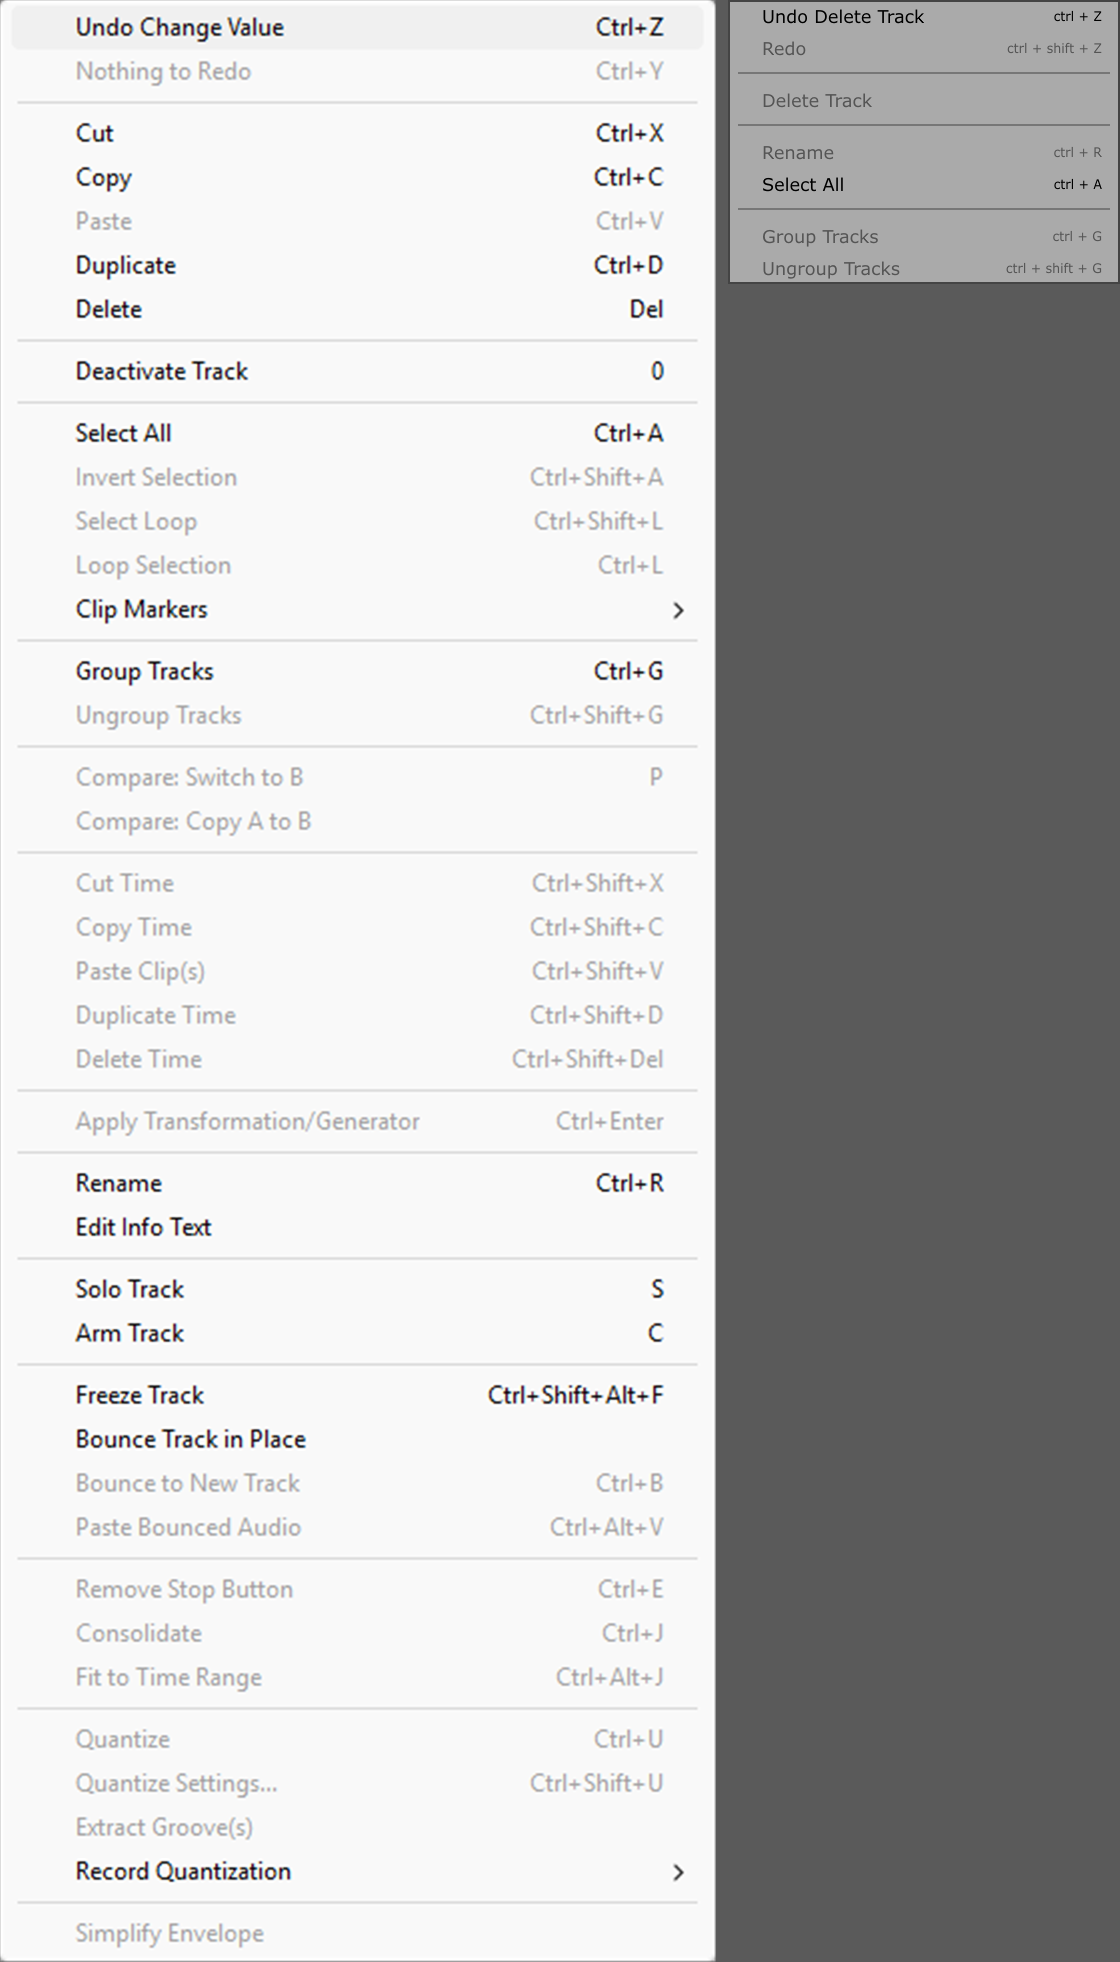
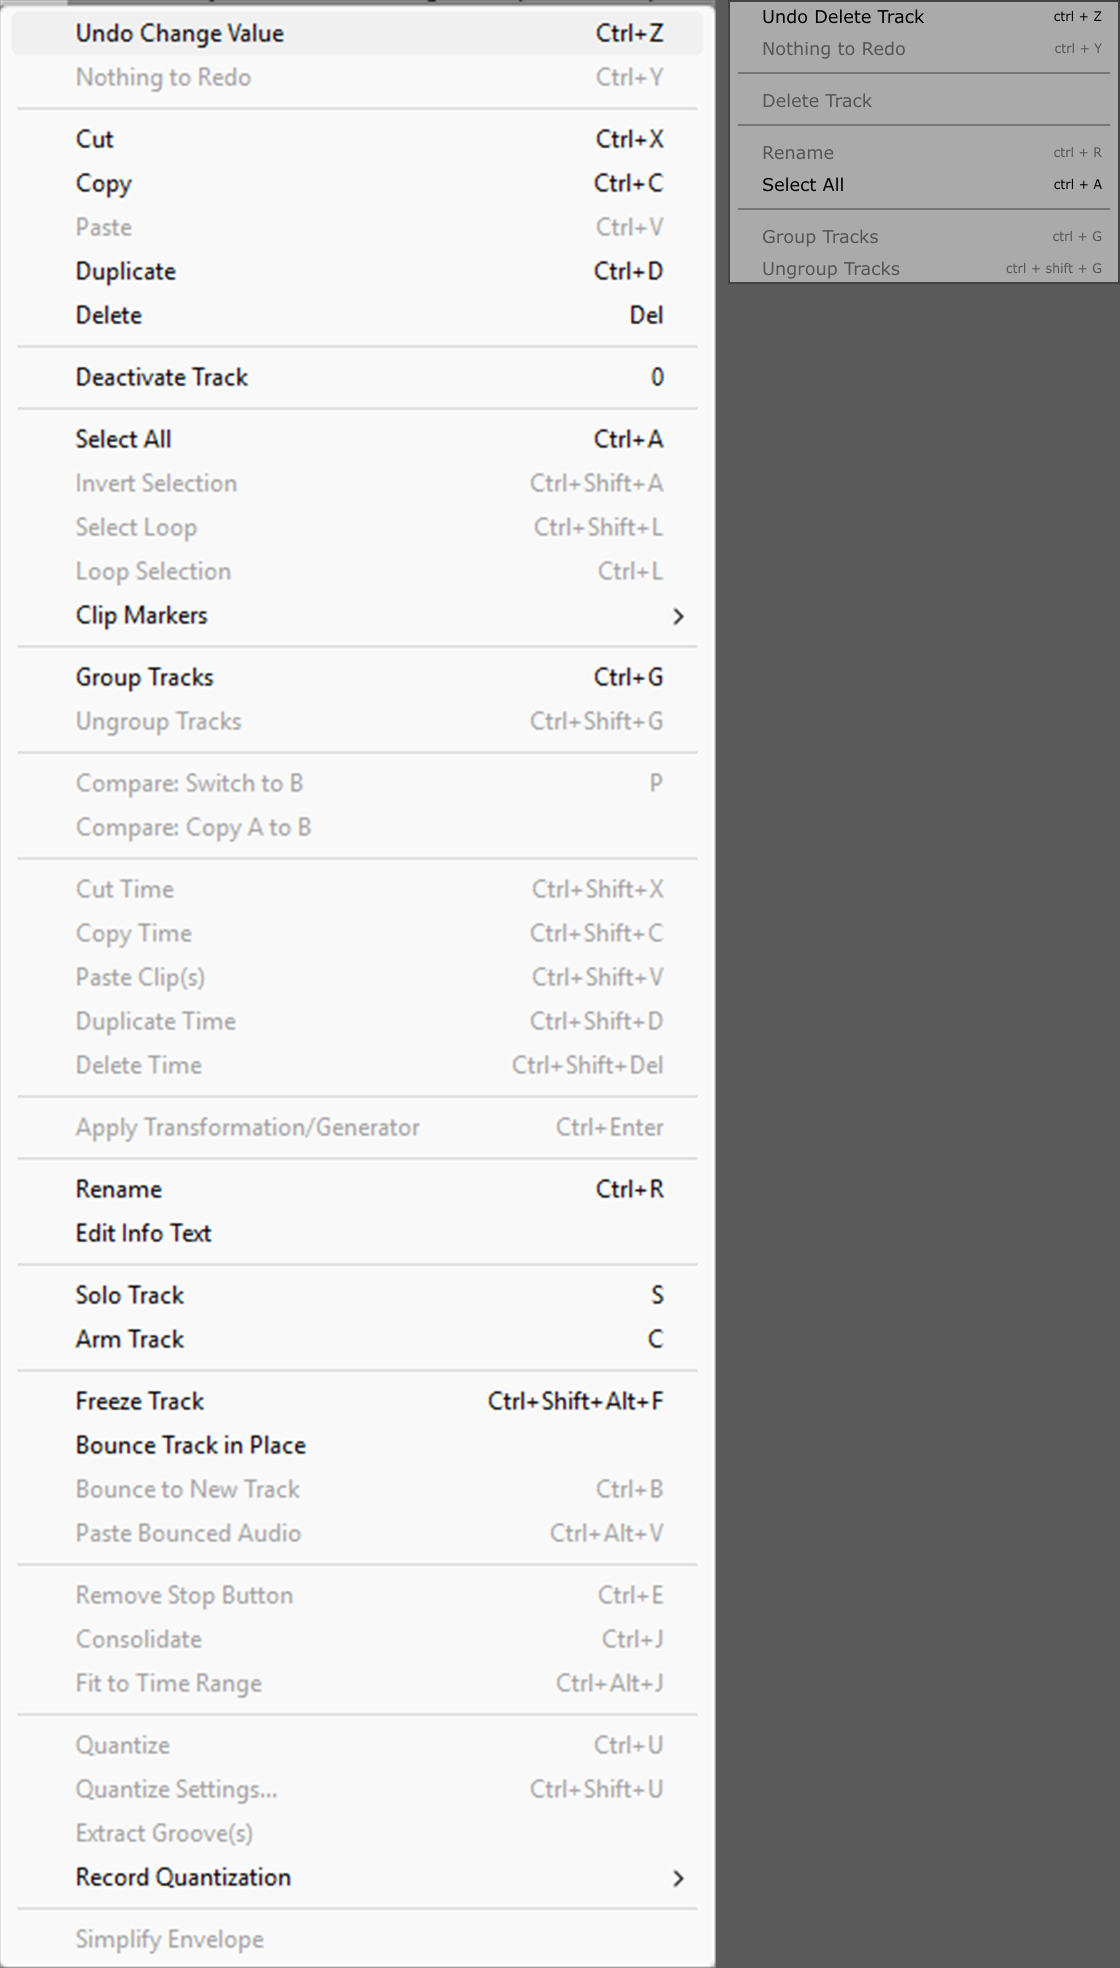
window: the Edit menu's empty items read Nothing to Undo / Redo, the picture under the Live key set, the measured order recorded (F1 review)
The F1 render was taken with the app preset still on Cubase from an earlier
check, so the picture showed Redo as ctrl + shift + Z and the PR body raised a
Ctrl+Y gap that ADI's default Live preset never had. The shell test puts the
preset back before the render and checks Ctrl+Y is Redo again off the Mac;
the picture is regenerated, the capture cropped three pixels above the menu's
frame so the first row keeps its margin.

AdiRootComponent::undoTitle says "Nothing to Undo" / "Nothing to Redo" with no
step, as Live 12's menu does (LK-02; Readings M1-16a), still dimmed; the two
shell checks that pinned the bare word pin Live's wording, and the Delete Track
check pins Nothing to Redo. Parity-7.2 rows 5 and 7 record it.

Parity-7.2 row 11 records what the picture shows that is not Live's: Live's
Edit menu order (Select All before Group/Ungroup, Rename seven groups later,
"Delete  Del") and the unmeasured menu colours (no look file had a menu row;
LK-02 is the reference). The reorder is queued as worklist F3.

diff --git a/adi_daw/tests/test_ui_shell.cpp b/adi_daw/tests/test_ui_shell.cpp
@@ -3109,7 +3109,8 @@ void newProject(AppCommands &commands, const std::filesystem::path &dir) {
               root.reader().findTrack(2)->name == "1 MIDI" && root.reader().findTrack(5)->name == "4 Audio" &&
               root.reader().findTrack(7)->name == "B Delay",
           "New shows Live's default Set: 1 MIDI, 2 MIDI, 3 Audio, 4 Audio, A Reverb, B Delay, then Main (N41)");
-    check(!root.canUndo(false) && root.undoTitle(false) == "Undo", "and has nothing to undo, as Live");
+    check(!root.canUndo(false) && root.undoTitle(false) == "Nothing to Undo" && root.undoTitle(true) == "Nothing to Redo",
+          "and has nothing to undo: the Edit menu's items read Nothing to Undo and Nothing to Redo, as Live 12's (LK-02)");
     if (const auto folder = juce::SystemStats::getEnvironmentVariable("ADI_UI_PARITY", {}); folder.isNotEmpty()) {
         juce::Image picture(juce::Image::ARGB, 2 * root.getWidth(), 2 * root.getHeight(), true, juce::SoftwareImageType{});
         {
@@ -4399,8 +4400,11 @@ int main(int argc, char **argv) {
               "the Edit menu deletes the selected track, before Rename (§18.2) and Select All, then Group and "
               "Ungroup Tracks");
         // The Edit menu as drawn after a Delete Track, for the picture beside Live 12's (the director's
-        // LK-02 capture): its Undo item names the step, as Live's "Undo Change Value" does. Worklist
-        // F1: what undo brings back is pinned in the seams test; this is the menu that offers it.
+        // LK-02 capture): its Undo item names the step, as Live's "Undo Change Value" does, and its
+        // Redo item reads "Nothing to Redo", as Live's does with nothing to redo. Worklist F1: what
+        // undo brings back is pinned in the seams test; this is the menu that offers it. The picture
+        // is of ADI's default key set, Live's (Redo Ctrl+Y off the Mac, §41.5): the app preset was
+        // switched to Cubase above and is put back before the render.
         {
             auto &edits = window.root();
             std::int64_t victim = 0;
@@ -4411,8 +4415,15 @@ int main(int argc, char **argv) {
             commands.activate(edits); // the Edit menu names the step of the active root
             edits.arrangement.geometry.selection.track = victim;
             check(victim != 0 && edits.command(C::DeleteTrack) && view.current()->tracks.size() + 1 == countBefore &&
-                      edits.undoTitle(false) == "Undo Delete Track",
-                  "Delete Track from the menu bar's window: the Undo item names the step");
+                      edits.undoTitle(false) == "Undo Delete Track" && edits.undoTitle(true) == "Nothing to Redo",
+                  "Delete Track from the menu bar's window: the Undo item names the step, Redo has nothing");
+            check(settings.set("shortcuts.preset", "live", {}, why), "the Live key set back for the picture");
+            commands.reload();
+#if !JUCE_MAC
+            check(commands.manager.getKeyMappings()->findCommandForKeyPress(
+                      juce::KeyPress('y', juce::ModifierKeys::commandModifier, 0)) == C::Redo,
+                  "Live's Redo key, Ctrl+Y (§41.5), is back with the preset");
+#endif
             if (const auto pictures = juce::SystemStats::getEnvironmentVariable("ADI_UI_PARITY", {}); pictures.isNotEmpty())
                 renderMenu(look::liveLook(), bar->getMenuForIndex(names.indexOf("Edit"), "Edit"),
                            juce::File(pictures).getChildFile("adi-edit-menu.png"));
@@ -4521,8 +4532,8 @@ int main(int argc, char **argv) {
             ++snapshots;
             return document->takeSnapshot({}, 0, 0).ok;
         };
-        check(!integrated.canUndo(false) && integrated.undoTitle(false) == "Undo",
-              "a new project has nothing to undo, as Live");
+        check(!integrated.canUndo(false) && integrated.undoTitle(false) == "Nothing to Undo",
+              "a new project has nothing to undo, as Live: the item reads Nothing to Undo");
         check(document->ops().submit(track(2)).ok && document->synchronise(),
               "application edit reaches engine");
         check(integrated.undoTitle(false) == "Undo Create track",

diff --git a/adi_daw/src/juce/ui_shell.hpp b/adi_daw/src/juce/ui_shell.hpp
@@ -195,7 +195,8 @@ class AdiRootComponent final : public juce::Component {
     // marker or the time selection.
     juce::String selectionText() const;
     bool canUndo(bool redo) const { return redo ? submitter_.canRedo() : submitter_.canUndo(); }
-    // What Live's Edit menu shows: "Undo" and the step's own label.
+    // What Live's Edit menu shows: "Undo" and the step's own label, or "Nothing to Undo" with no
+    // step (Live 12's menu, the director's LK-02 capture; Readings M1-16a); the same for Redo.
     std::string undoTitle(bool redo) const;
     // The application's commands (New, Open, Take Snapshot, Save As, Settings) and
     // the engine refresh after an edit belong to whoever owns the document.

diff --git a/adi_daw/src/juce/ui_shell.cpp b/adi_daw/src/juce/ui_shell.cpp
@@ -1120,8 +1120,10 @@ juce::String AdiRootComponent::selectionText() const {
 }
 std::string AdiRootComponent::undoTitle(bool redo) const {
     const auto step = redo ? submitter_.nextRedo() : submitter_.nextUndo();
-    return std::string(redo ? "Redo" : "Undo") +
-           (step && !step->label.empty() ? " " + step->label : "");
+    const std::string verb = redo ? "Redo" : "Undo";
+    if (!canUndo(redo))
+        return "Nothing to " + verb;
+    return verb + (step && !step->label.empty() ? " " + step->label : "");
 }
 bool AdiRootComponent::fail(std::string message) {
     error_ = std::move(message);

diff --git a/adi_daw/collab/window/parity-7.2-application.md b/adi_daw/collab/window/parity-7.2-application.md
@@ -13,12 +13,12 @@ Status as in `parity-7.2-shell.md`: built, partial, open, measure.
 | 2 | Open Live Set: Ctrl/Cmd+O | §41.3, p. 986 | A file chooser for `.adi`; a file that fails to open leaves the current project open | built |
 | 3 | Save Live Set: Ctrl/Cmd+S | §41.3, p. 986 | **Take Snapshot**: a named point in the history, the prompt pre-filled with the project's name and the time; not an edit, not an undo step (ADR-0203 d6, d12, d13) | built (the director's deviation) |
 | 4 | Save Live Set As: Ctrl/Cmd+Shift+S, a new file the Set carries on in, under a new name and/or in a new folder | §5.4.1, p. 130; §41.3, p. 986 | A save chooser for `.adi`, opened beside the current file; `ProjectDocument::saveAs` calls `Store::saveAs` (#380, N3) with no live statement held, takes the new name (the Take Snapshot prompt uses it), reads the view and the session again from the new file (a new view generation), and the window is retitled. The history comes along: undo still reaches an edit made before Save As, the next edit lands in the new file and the old file is unchanged. A success says nothing in the Status Bar and clears what was there, as after New and Open (`parity-7.2-shell.md` row 4); only a warning the store reports, or a session that failed to re-read the new file, goes there. A typed name keeps its dots ("Song v1.2" saves as `Song v1.2.adi`) (`window/save-as`; pictures `2026-11-08-save-as.png`, `…-refused.png`) | built; a known difference: Live asks before replacing an existing file, ADI never replaces a project, so an existing destination is refused and the Status Bar says why. Open on macOS: main's heavy legs fail `adi_project_files_tests` on Save As with audio media (N3, win's) |
-| 5 | Creating a Set is the first entry in the Undo History and cannot be undone | §5.4.2, p. 131 | A new project is the history's root: nothing to undo, the Edit menu greyed out (#307). A project an earlier build made began with a "New project" step, which undo still stops at, saying there is nothing to undo | built |
+| 5 | Creating a Set is the first entry in the Undo History and cannot be undone | §5.4.2, p. 131 | A new project is the history's root: nothing to undo, the Edit menu's item greyed out and reading "Nothing to Undo", as Live 12's (#307; `window/delete-track-parity`). A project an earlier build made began with a "New project" step, which undo still stops at, saying there is nothing to undo | built |
 | 6 | Opening a Set starts a fresh history (Live's history is not saved with the Set) | §5.4.2, p. 131 | ADI's history is in the file, so a reopened project undoes its earlier edits | ADI's addition (ADR-0003); never its creation |
-| 7 | The Edit menu's Undo and Redo name the action | §5.4.2, p. 131; §41.5 | "Undo Create track" and the like, from the history's own labels | built |
+| 7 | The Edit menu's Undo and Redo name the action; with nothing to undo or redo the item reads "Nothing to Undo" / "Nothing to Redo", dimmed (Live 12 measured: `LK-02_edit-menu.png`, 5 November; Readings M1-16a) | §5.4.2, p. 131; §41.5 | "Undo Create track" and the like, from the history's own labels; "Nothing to Undo" and "Nothing to Redo" with no step (`AdiRootComponent::undoTitle`, `window/delete-track-parity`; picture `2026-11-08-delete-track-parity.png`) | built. Measure: the exact labels Live gives a deleted track and an ungrouped group ("Undo Delete Track"? "Undo Ungroup Tracks"?), and which track Live selects after each (M2-12 NOT RUN) |
 | 8 | Ctrl/Cmd+, opens the Settings; audio is set up on its Audio page | §40.2, p. 975; §41.1, p. 985 | Opens the Settings window; its Audio page leads with Live's Audio Device, Sample Rate and Latency sections over the device manager, stored in App scope (`audio.*`) | built (`window/settings`, `parity-settings.md`) |
 | 9 | — (ADR-0203 d11) a device that cannot be opened always warns, never switches silently | ADR-0203 d11 | An unavailable driver or a failed open is reported, and nothing else is opened in its place | built |
 | 10 | Quit: Ctrl+Q / Cmd+Q | §41.3, p. 986 | Cmd+Q is the Mac's application menu; Ctrl+Q, and Quit at the foot of the File menu, on Windows and Linux. Both reach the same quit, which asks nothing, since every edit is already in the file | built |
-| 11 | The menu bar: File, Edit, Create, View, Options, Navigate, Help; on the Mac at the top of the screen. Settings is in the Options menu on Windows and in the Live menu on the Mac; tracks are deleted with the Edit menu's Delete | Live's menus; online §2.3, §18.2, §41.4.1, §42.28 | Live's menus in Live's order, each listing only the commands ADI has: File, Edit (with Delete Track before Rename), Create, View, Options with Follow (`window/follow`) and, off the Mac, Settings, and Navigate with the focus moves of the views ADI has (`window/navigate-menu`, `parity-7.2-shell.md` row 18); on the Mac, Settings in the application menu (`window/menu-bar`). A menu with no command is left out | partial: Help waits for a Learn View (§2.2.1); Live's other commands arrive with their ops. Live 12's Options menu shows Settings... with its key, Ctrl+, (`LK-02_options-menu.png`, 5 November); ADI's shows it too, as every command item's key, in JUCE's Windows spelling ("ctrl + ,", "ctrl + shift + F") where Live writes "Ctrl+,"; the shell tests' menu renders left the keys out until `window/solo-in-place`, which fills them as JUCE's menu window does. Measure: Live's key spelling per platform, for ADI's menus to follow |
+| 11 | The menu bar: File, Edit, Create, View, Options, Navigate, Help; on the Mac at the top of the screen. Settings is in the Options menu on Windows and in the Live menu on the Mac; tracks are deleted with the Edit menu's Delete | Live's menus; online §2.3, §18.2, §41.4.1, §42.28 | Live's menus in Live's order, each listing only the commands ADI has: File, Edit (with Delete Track before Rename), Create, View, Options with Follow (`window/follow`) and, off the Mac, Settings, and Navigate with the focus moves of the views ADI has (`window/navigate-menu`, `parity-7.2-shell.md` row 18); on the Mac, Settings in the application menu (`window/menu-bar`). A menu with no command is left out | partial: Help waits for a Learn View (§2.2.1); Live's other commands arrive with their ops. Live 12's Options menu shows Settings... with its key, Ctrl+, (`LK-02_options-menu.png`, 5 November); ADI's shows it too, as every command item's key, in JUCE's Windows spelling ("ctrl + ,", "ctrl + shift + F") where Live writes "Ctrl+,"; the shell tests' menu renders left the keys out until `window/solo-in-place`, which fills them as JUCE's menu window does. Measure: Live's key spelling per platform, for ADI's menus to follow. **Live 12's Edit menu order, measured** (`LK-02_edit-menu.png`, Windows): Undo, Redo \| Cut, Copy, Paste, Duplicate, Delete (key Del) \| Deactivate Track \| Select All, Invert Selection, Select Loop, Loop Selection, Clip Markers \| Group Tracks, Ungroup Tracks \| … \| Rename, Edit Info Text \| …; ADI's reads Undo, Redo \| Delete Track \| Rename, Select All \| Group Tracks, Ungroup Tracks, so Select All sits after Rename where Live has Rename seven groups later, and Live's item is "Delete  Del" where ADI's is "Delete Track" with no key (Live's Delete acts on whatever is selected; ADI's deletes the track until clips and time have their own Delete). The reorder is queued as worklist F3. **Menu colours unmeasured against Live 12:** `LK-02_edit-menu.png` shows a light menu, dark text and the key column in Live's spelling, where ADI's `look::liveLook` draws its menus on `field` (mid-grey); `look-live11.md` has no menu row. LK-02 is the reference for the next look pass |
 | 12 | Space plays the project through the audio device | §41.20, p. 1001 | The driver drains the UI's queue between blocks; the bar reads its feedback; the tempo is read at the device's granted rate | built |
 | 13 | On Windows, Alt and a menu's first letter opens that menu; the arrows move through it and to its neighbours, Enter chooses. On the Mac, Cmd+? searches the menus | online §42.28 | Off the Mac, Alt and the letter opens the menu through `menuForKey`; JUCE's menus take the arrows and Enter (`window/menu-keys`). Seen working in the app under Xvfb on Linux: Alt+E, then Right to Create | built off the Mac; open on the Mac: macOS puts its menu search in an application's Help menu, which waits with row 11 |

diff --git a/adi_daw/collab/window/worklist-2026-11-05.md b/adi_daw/collab/window/worklist-2026-11-05.md
@@ -101,9 +101,10 @@ shortcut chapter is 41, which is 42 in the online edition. "MR" is the Master Re
 | 31 | E6 | The bounce prompts | N17 | #417, #393 | M | 3, after A2 |
 | 32 | F1 | Undo of Delete Track and Ungroup: the parity note and a check | N37 | #401 | S | 4 |
 | 33 | F2 | New's two returns in the parity notes | N41 | #415 | S | 4 |
-| 34 | G1 | The Clip View reads its clip and draws its notes | N32 | #388 | L | gate (7.7) |
-| 35 | G2 | The Main panel's fields, the loop brace, Fit to Scale | N33 | #413 | M | gate (7.7), after G1 |
-| 36 | G3 | 0 deactivates notes | N34 | #389 | S | gate (7.7), after G1 |
+| 34 | F3 | The Edit menu in Live 12's measured order | — | F1's picture | S | 4 |
+| 35 | G1 | The Clip View reads its clip and draws its notes | N32 | #388 | L | gate (7.7) |
+| 36 | G2 | The Main panel's fields, the loop brace, Fit to Scale | N33 | #413 | M | gate (7.7), after G1 |
+| 37 | G3 | 0 deactivates notes | N34 | #389 | S | gate (7.7), after G1 |
 
 "Through #420's merge" below means a closed PR whose head reached main inside #420's merge
 (`d87fa8cf`). "Through #430's merge" means the same inside `ca0290c2`. #380, #381 and #382 were
@@ -1020,6 +1021,28 @@ through A2.
 - **Files:** `collab/window/parity-7.2-application.md`.
 - **Follows:** ADR-0209 §10 d10; look-live11.md; Live 12 manual 41.3.
 - **Headless test:** the two existing checks.
+- **Size:** S.
+
+### F3. The Edit menu in Live 12's measured order
+- **Row:** none; raised by F1's picture (`2026-11-08-delete-track-parity.png`, the director's
+  `LK-02_edit-menu.png` of 5 November).
+- **Builds on:** F1 (`window/delete-track-parity`).
+- **Today:** `menuBar` in `ui_shell.cpp` lists Edit as Undo, Redo | Delete Track | Rename, Select All
+  | Group Tracks, Ungroup Tracks, and the shell test pins that order ("before Rename (§18.2) and
+  Select All, then Group and Ungroup Tracks"). Live 12's measured order is Undo, Redo | Cut, Copy,
+  Paste, Duplicate, Delete | Deactivate Track | Select All, Invert Selection, Select Loop, Loop
+  Selection, Clip Markers | Group Tracks, Ungroup Tracks | … | Rename, Edit Info Text | …; so Select
+  All comes before Group and Ungroup Tracks, and Rename after them.
+- **Change:** the Edit entry of the `menuBar` table becomes Delete Track, a separator, Select All, a
+  separator, Group Tracks, Ungroup Tracks, a separator, Rename; the shell check follows. The
+  shared-touchpoint rule above ("keep Live's menu order") applies; nothing else moves. Whether
+  ADI's item is named "Delete" with Del as its key, as Live's, waits for clips and time to have
+  their own Delete (parity-7.3 rows 35 and 36).
+- **Files:** `src/juce/ui_shell.cpp`, `tests/test_ui_shell.cpp`, `collab/window/parity-7.2-application.md`
+  row 11.
+- **Follows:** `LK-02_edit-menu.png`; Live 12 manual 18.2, 18.3, 41.5; parity-7.2 row 11.
+- **Headless test:** `adi_ui_shell_tests`: the Edit menu's ids in the new order; the render
+  `adi-edit-menu.png` beside LK-02.
 - **Size:** S.
 
 ---
